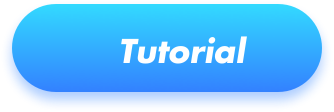
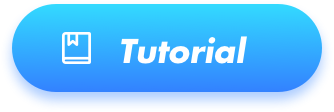
新增页面

Changed region(s): [[0.1796, 0.2679, 0.2695, 0.5893]]

diff --git a/src/components/Sell/SellIndex.vue b/src/components/Sell/SellIndex.vue
@@ -6,11 +6,23 @@
       <br />
       It’s 24×7,safe and absolutely legal!
     </p>
-    <img class="title_sub" src="../../assets/img/title_sub.png" alt="">
+    <img class="title_sub" src="../../assets/img/title_sub.png" alt="" />
     <ul class="steps">
-    	<li>
-        <h3>Buy USDT on Bitbns</h3>
-        <p>UMAP helps you convert your USDT to money instantly where UMAP acts as an escrow for safekeeping of transaction.</p>
+      <li>
+        <h3 class="fontsize16 fontweight-m">Buy USDT on Bitbns</h3>
+        <p class="fontweight-r">UMAP helps you convert your USDT to money instantly where UMAP acts as an escrow for safekeeping of transaction.</p>
+        <img @click="navigateTo('https://bitbns.com/trade/#/usdt')" src="../../assets/img/btn_buy.png" alt="" />
+      </li>
+      <li>
+        <h3 class="fontsize16 fontweight-m">Buy USDT on Bitbns</h3>
+        <p class="fontweight-r">UMAP helps you convert your USDT to money instantly where UMAP acts as an escrow for safekeeping of transaction.</p>
+        <img @click="toSell" src="../../assets/img/btn_sell.png" alt="" />
+      </li>
+      <li>
+        <h3 class="fontsize16 fontweight-m">Buy USDT on Bitbns</h3>
+        <p class="fontweight-r">UMAP helps you convert your USDT to money instantly where UMAP acts as an escrow for safekeeping of transaction.</p>
+        <img @click="navigateTo('http://cdn.umap.vip/doc/umap%20tutorial.pdf')" src="../../assets/img/btn_tutorial.png" alt="" />
+        <img @click="navigateTo('http://cdn.umap.vip/voide/1616566580874646.mp4')" src="../../assets/img/btn_video.png" alt="" />
       </li>
     </ul>
   </div>
@@ -23,15 +35,26 @@ export default {
   data() {
     return {};
   },
-  created() {},
+  created() {
+    this.$store.state.loading = false;
+  },
   mounted() {},
-  methods: {}
+  methods: {
+    navigateTo(url) {
+      location.href = url;
+    },
+    toSell() {
+      this.$router.push({
+        path: '/sell'
+      });
+    }
+  }
 };
 </script>
 
 <style lang="scss" scoped>
 .sellIndex {
-  background: url(../../assets/img/bg.png) no-repeat center top;
+  background: url(../../assets/img/bg.png) no-repeat center top #ffffff;
   background-size: 100%;
   padding-top: 40px;
   .title {
@@ -46,6 +69,57 @@ export default {
   .title_sub {
     width: 277px;
     margin: 0 auto;
+  }
+  .steps {
+    padding: 0 24px 50px;
+    li {
+      margin-top: 23px;
+      padding-bottom: 10px;
+      &:nth-child(1) {
+        h3 {
+          background: url(../../assets/img/step1.png) no-repeat left center;
+          background-size: 55px;
+        }
+        p {
+          background: url(../../assets/img/icon_step1.png) no-repeat left center;
+          background-size: 60px;
+        }
+      }
+      &:nth-child(2) {
+        h3 {
+          background: url(../../assets/img/step2.png) no-repeat left center;
+          background-size: 55px;
+        }
+        p {
+          background: url(../../assets/img/icon_step2.png) no-repeat left center;
+          background-size: 60px;
+        }
+      }
+      &:nth-child(3) {
+        h3 {
+          background: url(../../assets/img/step3.png) no-repeat left center;
+          background-size: 55px;
+        }
+        p {
+          background: url(../../assets/img/icon_step3.png) no-repeat left center;
+          background-size: 60px;
+        }
+      }
+    }
+    img {
+      width: 167px;
+      margin: 0 auto;
+    }
+    h3 {
+      color: #060d56;
+      padding: 8px 0 10px 72px;
+    }
+    p {
+      font-size: 15px;
+      margin: 18px 0 22px;
+      padding-left: 72px;
+      line-height: 20px;
+    }
   }
 }
 </style>

diff --git a/src/components/Home/Home.vue b/src/components/Home/Home.vue
@@ -14,6 +14,9 @@
     </van-swipe>
     <section class="main">
       <van-button type="primary" block @click="toSell">Sell USDT</van-button>
+      <van-swipe class="marquee" vertical :show-indicators="false" :autoplay="5000">
+        <van-swipe-item v-for="(item, index) in marquees" :key="index">{{item}}</van-swipe-item>
+      </van-swipe>
       <div class="part part1 bg-dbeaff">
         <div class="line line1">
           <p class="bg-edf5ff fontsize10 text-center fontweight-m">
@@ -75,7 +78,15 @@ export default {
       mapuPrice: null,
       marketPrice: null,
       eran: null,
-      todayLimteVolume: null
+      todayLimteVolume: null,
+      marquees: [
+        '93***293 just earned 356Rs',
+        '83***207 successfully sold 1800 USDT',
+        '95***395 just earned 420Rs',
+        '65***197 successfully sold 2000 USDT',
+        '87***796 just earned 1000Rs',
+        '91***253 just earned 198Rs'
+      ]
     };
   },
   created() {
@@ -151,6 +162,14 @@ export default {
   top: -20px;
   background: url(../../assets/img/logo3@2x.png) no-repeat center bottom 50px #ffffff;
   background-size: 77px 20px;
+  .marquee{
+    height: 40px;
+    line-height: 40px;
+    margin-top: 20px;
+    background-color: #f6f7fb;
+    text-align: center;
+    border-radius: 4px;
+  }
   .part {
     position: relative;
     margin-top: 20px;

diff --git a/src/components/Sell/Sell.vue b/src/components/Sell/Sell.vue
@@ -1,6 +1,11 @@
 <template>
   <div class="sell">
-    <h3 class="white-color fontweight-m fontsize28">Sell USDT</h3>
+    <van-nav-bar @click-left="onClickLeft">
+      <template #left>
+        <img src="../../assets/img/Left-white@2x.png" alt="" />
+      </template>
+    </van-nav-bar>
+    <h3 class="title padding-20 fontweight-m white-color">Sell USDT</h3>
     <div class="line line1">
       <p class="bg-8ceaff flex fontsize12">
         <img src="../../assets/img/USDT@2x.png" alt="" />
@@ -111,6 +116,9 @@ export default {
   },
   mounted() {},
   methods: {
+    onClickLeft() {
+      this.$router.go(-1);
+    },
     getPaymentList() {
       getPaymentList()
         .then(res => {
@@ -198,7 +206,8 @@ export default {
   background: url(../../assets/img/bg_sell@2x.png) no-repeat center top;
   background-size: 100%;
   h3 {
-    padding: 22px 20px 0;
+    padding: 50px 20px 0;
+    font-size: 28px;
   }
   .line1 {
     width: 80%;
